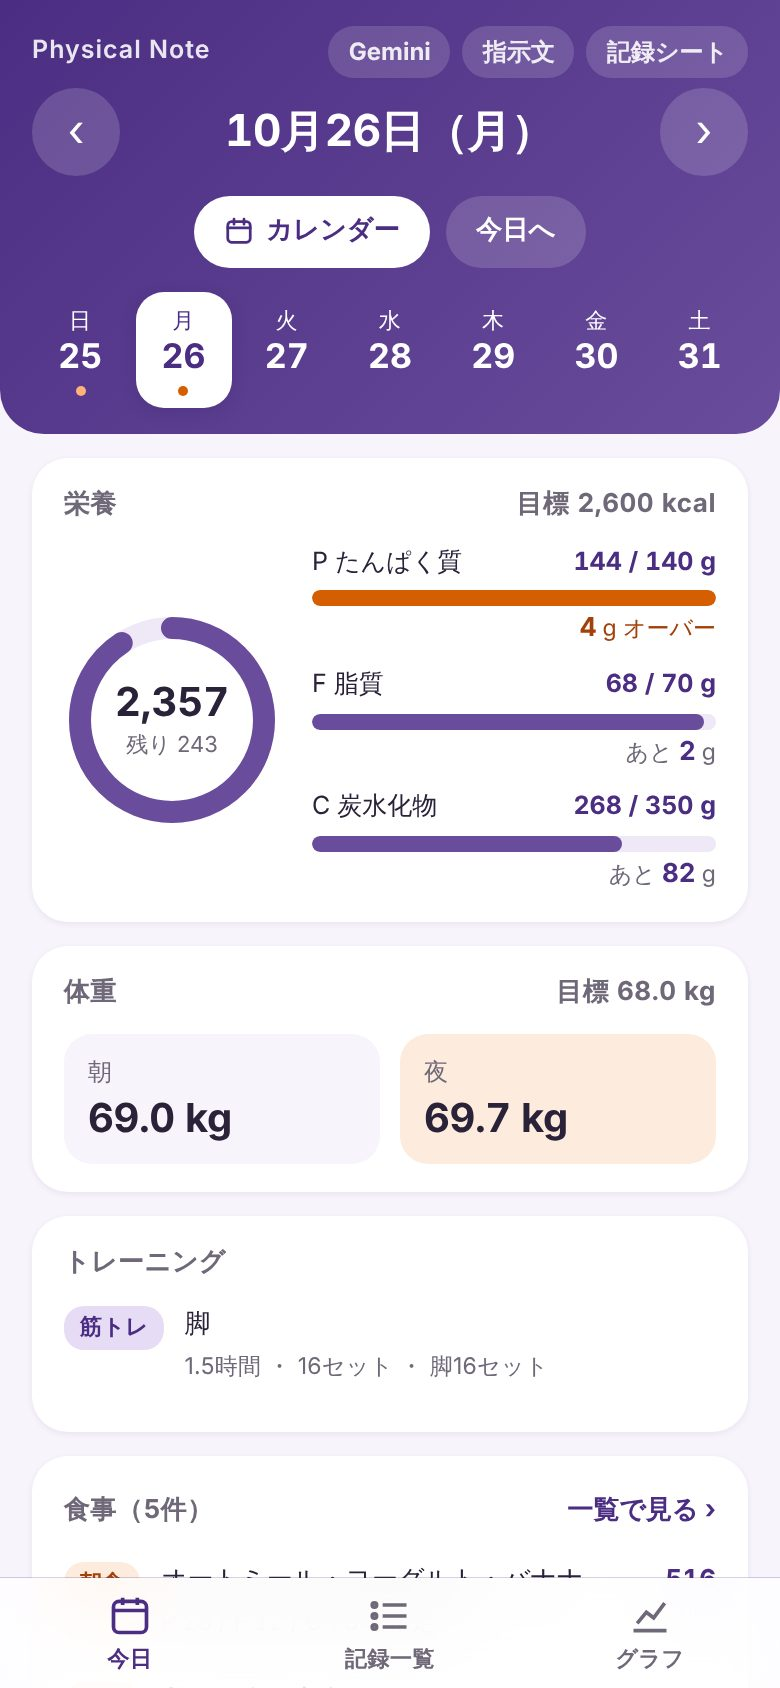
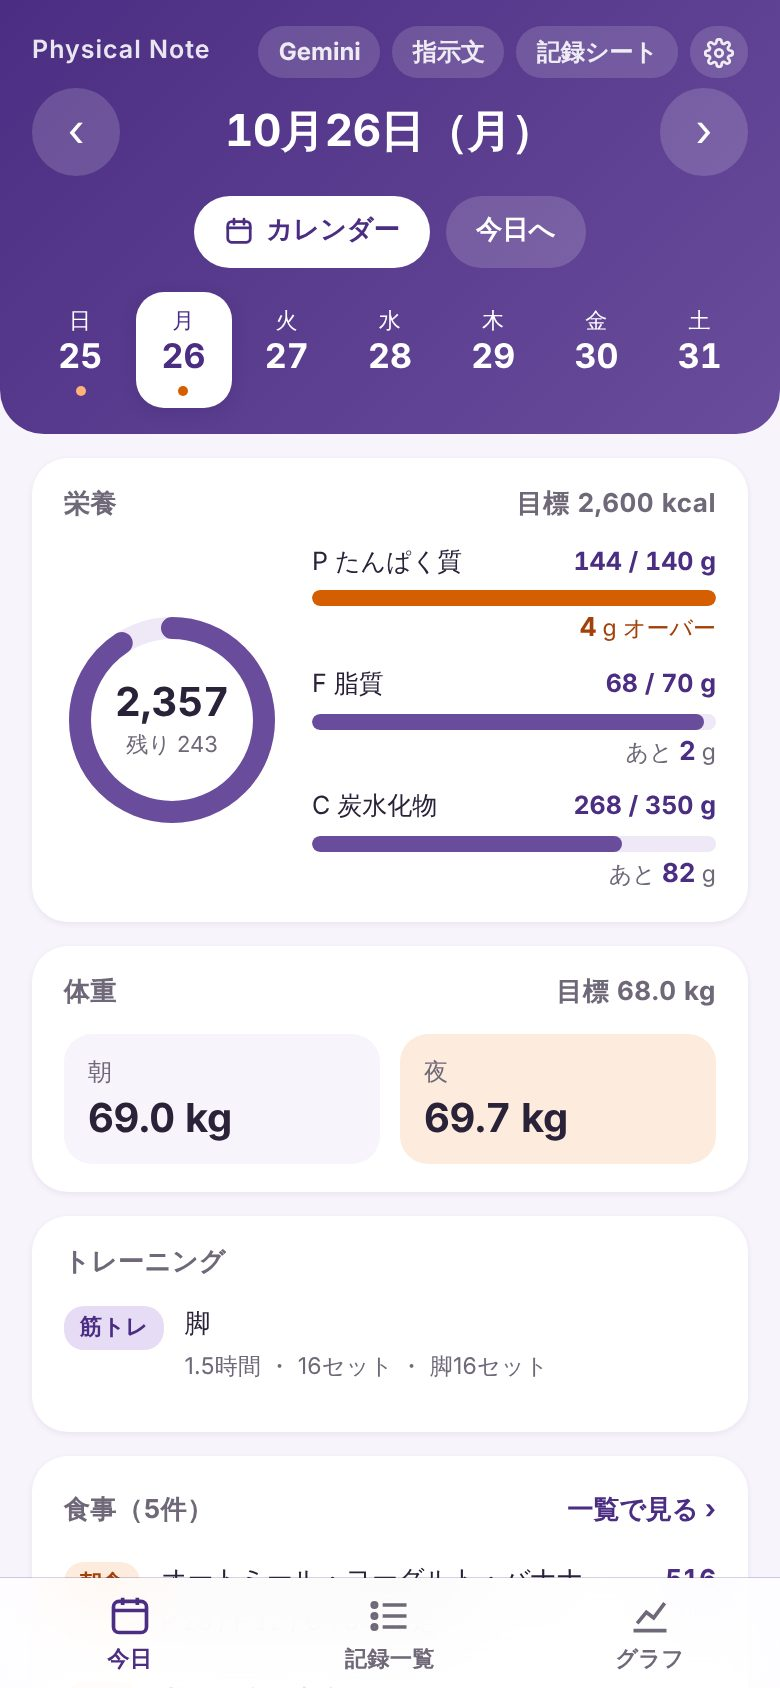
アプリの使い方に「Gemini」ボタンと設定（歯車）の説明を足す
Claude-Session: https://claude.ai/code/session_01NH1LD6XLXuFokfd5GSjLff

Changed region(s): [[0.3385, 0.0, 0.9538, 0.0616]]

diff --git a/start/features.html b/start/features.html
@@ -172,7 +172,7 @@ footer span a+a{margin-left:16px}
         <li><a href="#cal"><span class="n">3</span>カレンダー</a></li>
         <li><a href="#list"><span class="n">4</span>記録一覧</a></li>
         <li><a href="#graph"><span class="n">5</span>グラフ</a></li>
-        <li><a href="#gem"><span class="n">6</span>Gemini・指示文</a></li>
+        <li><a href="#gem"><span class="n">6</span>Gemini・指示文・設定</a></li>
         <li><a href="#mng"><span class="n">7</span>記録シート（年・リセット）</a></li>
         <li><a href="#common"><span class="n">8</span>どの画面でも</a></li>
         <li><a href="#trouble"><span class="n">9</span>困ったとき</a></li>
@@ -207,7 +207,7 @@ footer span a+a{margin-left:16px}
       <h3>上半分：日付と栄養</h3>
       <div class="scr">
         <figure class="phone"><div class="screen"><img src="img/use-day.jpg" width="780" height="1688" loading="lazy" alt="今日の画面の上半分。日付、カレンダーのボタン、曜日の帯、栄養の輪とPFCの棒があります。">
-          <span class="mk" style="left:14.9%;top:5.5%">1</span><span class="mk" style="left:29.2%;top:17.5%">2</span><span class="mk" style="left:25.4%;top:11.8%">3</span><span class="mk" style="left:74.6%;top:11.8%">4</span><span class="mk" style="left:8.7%;top:36.5%">5</span><span class="mk" style="left:35.9%;top:37.4%">6</span><span class="mk" style="left:38%;top:3.1%">7</span></div></figure>
+          <span class="mk" style="left:14.9%;top:5.5%">1</span><span class="mk" style="left:29.2%;top:17.5%">2</span><span class="mk" style="left:25.4%;top:11.8%">3</span><span class="mk" style="left:74.6%;top:11.8%">4</span><span class="mk" style="left:8.7%;top:36.5%">5</span><span class="mk" style="left:35.9%;top:37.4%">6</span><span class="mk" style="left:64.5%;top:4.6%">7</span></div></figure>
         <ol class="keys">
           <li data-k="1"><span class="k" aria-hidden="true">1</span><div><b>‹ ›（前の日・次の日）</b><p>1日ずつ動きます。画面を左右にスワイプしても動きます。</p></div></li>
           <li data-k="2"><span class="k" aria-hidden="true">2</span><div><b>曜日の帯</b><p>その週の日を押すと、その日に移ります。数字の下の点は、記録がある日です。</p></div></li>
@@ -220,7 +220,13 @@ footer span a+a{margin-left:16px}
               <tr><th>○ g オーバー</th><td>目標を○g超えています。棒がオレンジになります。</td></tr>
               <tr><th>目標ぴったり</th><td>目標と同じ量です。</td></tr>
             </tbody></table></div></li>
-          <li data-k="7"><span class="k" aria-hidden="true">7</span><div><b>上の3つのボタン</b><p>「Gemini」はGeminiを開きます。「指示文」と「記録シート」は、<a href="#gem">6</a> と <a href="#mng">7</a> で説明します。</p></div></li>
+          <li data-k="7"><span class="k" aria-hidden="true">7</span><div><b>上の4つのボタン</b>
+            <table class="tbl"><tbody>
+              <tr><th>Gemini</th><td>Geminiアプリが開きます（入っていなければウェブ版）。<a href="#gem">6へ</a></td></tr>
+              <tr><th>指示文</th><td>Geminiに貼る指示文をコピーします。<a href="#gem">6へ</a></td></tr>
+              <tr><th>記録シート</th><td>シートを開く、年を変える、リセットする。<a href="#mng">7へ</a></td></tr>
+              <tr><th>歯車</th><td>「Gemini」ボタンで開くチャットを決めます。<a href="#set">6へ</a></td></tr>
+            </tbody></table></div></li>
         </ol>
       </div>
       <h3>下半分：体重・トレーニング・食事</h3>
@@ -293,8 +299,23 @@ footer span a+a{margin-left:16px}
 
     <!-- 6 Gemini・指示文 -->
     <section class="part rv" id="gem">
-      <header><div class="num" aria-hidden="true">6</div><div><span class="kicker">今日の画面の上「指示文」</span><h2>Gemini・指示文</h2></div></header>
-      <p class="lead">Geminiに記録を頼むための指示文を、この画面からコピーできます。指示文には、自分の記録シートとアプリのURLが入っています。</p>
+      <header><div class="num" aria-hidden="true">6</div><div><span class="kicker">今日の画面の上「Gemini」「指示文」「歯車」</span><h2>Gemini・指示文・設定</h2></div></header>
+      <p class="lead">Geminiで記録するときに使う3つのボタンです。</p>
+      <h3 id="set">「Gemini」ボタンと設定（歯車）</h3>
+      <p>「Gemini」を押すと、Geminiアプリが開きます。アプリが入っていないときは、ウェブ版のGeminiが開きます。</p>
+      <p>いつも使うチャット（またはGem）を開きたいときは、右上の歯車で、そのチャットのリンクを保存します。</p>
+      <div class="path" aria-label="押す順番"><span class="k2">今日</span><span class="ar" aria-hidden="true"></span><span class="k2">歯車</span><span class="ar" aria-hidden="true"></span><span class="k2">リンクを貼り付け</span><span class="ar" aria-hidden="true"></span><span class="k2 go">保存</span></div>
+      <div class="scr">
+        <figure class="phone"><div class="screen"><img src="img/use-set.jpg" width="780" height="1688" loading="lazy" alt="設定の画面。Geminiボタンで開くチャットのリンクを貼る欄と、保存のボタンがあります。">
+          <span class="mk" style="left:86.2%;top:54.6%">1</span><span class="mk" style="left:86.2%;top:61.7%">2</span></div></figure>
+        <ol class="keys">
+          <li data-k="1"><span class="k" aria-hidden="true">1</span><div><b>チャットのリンク</b><p>ブラウザでGeminiのチャットを開いたときのアドレスを貼ります。https://gemini.google.com/ か https://g.co/gemini/ で始まるリンクだけ保存できます。</p></div></li>
+          <li data-k="2"><span class="k" aria-hidden="true">2</span><div><b>保存</b><p>保存すると、「Gemini」ボタンでそのチャットが開きます。欄を空にして保存すると、Geminiアプリを開くだけに戻ります。</p></div></li>
+        </ol>
+      </div>
+      <p class="note">リンクは、使っているスマホやパソコンのブラウザに保存されます。別の端末では、もう一度保存します。</p>
+      <h3>指示文</h3>
+      <p>Geminiに記録を頼むための指示文を、この画面からコピーできます。指示文には、自分の記録シートとアプリのURLが入っています。</p>
       <div class="path" aria-label="開く順番"><span class="k2">今日</span><span class="ar" aria-hidden="true"></span><span class="k2 go">指示文</span></div>
       <div class="scr">
         <figure class="phone"><div class="screen"><img src="img/use-gem.jpg" width="780" height="1688" loading="lazy" alt="Gemini用の指示文の画面。指示文の欄と、コピーのボタンがあります。">
@@ -305,7 +326,7 @@ footer span a+a{margin-left:16px}
       </div>
       <div class="blk where">
         <span class="lbl"><svg viewBox="0 0 24 24" aria-hidden="true"><path d="M12 21s-7-6.2-7-11.5A7 7 0 0 1 19 9.5C19 14.8 12 21 12 21z"/><circle cx="12" cy="9.5" r="2.5"/></svg>Geminiへの貼り方</span>
-        <p>コピーした指示文の使い方と、Geminiの設定は <a href="guide.html">Gemini導入ガイド</a> にあります。今日の画面の「Gemini」を押すと、Geminiが開きます。</p>
+        <p>コピーした指示文の使い方と、Geminiの設定は <a href="guide.html">Gemini導入ガイド</a> にあります。</p>
       </div>
     </section>
 

diff --git a/tools/use-shots.js b/tools/use-shots.js
@@ -14,7 +14,7 @@ const W=390,H=844;
     const p=await b.newPage({viewport:{width:W,height:H},deviceScaleFactor:2,isMobile:true,hasTouch:true,colorScheme:'light'});
     await p.goto(BASE+url);await p.waitForTimeout(2000);
     await p.addStyleTag({content:'.demo-bar{display:none!important}*{transition:none!important;animation:none!important}'});
-    await p.evaluate(()=>{['gemOpen','gemLink','sheetLink'].forEach(id=>document.getElementById(id).hidden=false);});
+    await p.evaluate(()=>{['gemOpen','gemLink','sheetLink','setLink'].forEach(id=>document.getElementById(id).hidden=false);});
     await p.waitForTimeout(300);return p;
   }
   // 印の位置：要素の中心（または左上寄り）を画像に対する%で出す
@@ -25,7 +25,7 @@ const W=390,H=844;
       if(!r){console.error('no element',name,sel);continue;}
       // R/L：要素の右端・左端の内側、OL：左の外、TL/TR：角
       const [x,y,w,h]=r;let px=x+w/2,py=y+h/2;
-      if(at==='R')px=x+w-18;if(at==='L')px=x+18;if(at==='OL')px=x-16;if(at==='OR')px=x+w+16;
+      if(at==='R')px=x+w-18;if(at==='L')px=x+18;if(at==='OL')px=x-16;if(at==='OR')px=x+w+16;if(at==='B')py=y+h;
       if(at==='TL'){px=x+2;py=y+2;}if(at==='TR'){px=x+w-2;py=y+2;}
       pts.push([+(px/W*100).toFixed(1),+(py/H*100).toFixed(1)]);
     }
@@ -37,7 +37,7 @@ const W=390,H=844;
   await shoot(p,'use-start',[['#gBtn','R'],['#keyIn','R']]);await p.close();
 
   p=await page('?demo');
-  await shoot(p,'use-day',[['#prevDay','TR'],['#week button.sel','TR'],['#openCal','TL'],['#goToday','TR'],['.kc svg','TL'],['#pfc .rest','OL'],['.links','OL']]);
+  await shoot(p,'use-day',[['#prevDay','TR'],['#week button.sel','TR'],['#openCal','TL'],['#goToday','TR'],['.kc svg','TL'],['#pfc .rest','OL'],['.links','B']]);
   await p.evaluate(()=>window.scrollTo(0,document.body.scrollHeight));await p.waitForTimeout(400);
   await shoot(p,'use-day2',[['.wt','TL'],['#train','R'],['#toList','OL'],['.nav button[data-v="day"] svg','TR']]);
   await p.evaluate(()=>window.scrollTo(0,0));await p.waitForTimeout(300);
@@ -51,6 +51,11 @@ const W=390,H=844;
   await shoot(p,'use-list',[['#lPrev','TL'],['#tabs button','TL'],['#sortBtn','OL'],['#listBody .tag.p','OR']]);
   await p.click('.nav button[data-v="graph"]');await p.waitForTimeout(700);
   await shoot(p,'use-graph',[['#gPrev','TL'],['#chartW','TR'],['#chartK','TR']]);
+  await p.close();
+
+  p=await page('?demo');
+  await p.click('#setLink');await p.waitForTimeout(500);
+  await shoot(p,'use-set',[['#setGem','R'],['#setSave','R']]);
   await p.close();
 
   p=await page('?demo');
